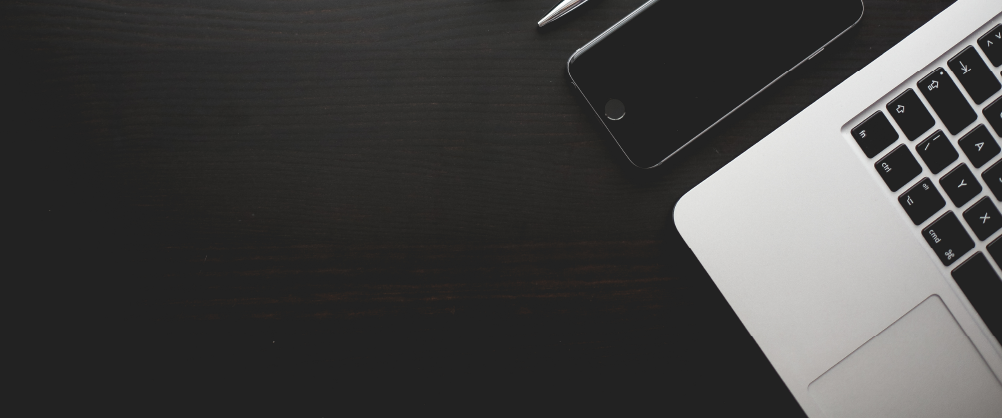
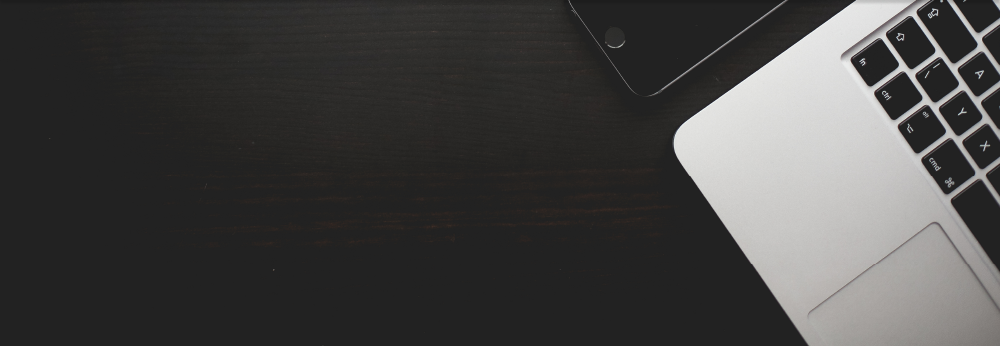
微調 navbar 的 hover 效果

diff --git a/css/style.css b/css/style.css
@@ -109,9 +109,15 @@ table {
 
 .navbar li a {
   line-height: 36px;
+  padding-bottom: 14px;
   color: #0c9;
 }
 .navbar li a:hover {
   border-bottom: 5px solid #0c9;
-  padding-bottom: 18px;
+}
+
+.banner {
+  background: url(../img/banner/bg.png);
+  width: 1000px;
+  height: 346px;
 }

diff --git a/index.html b/index.html
@@ -33,8 +33,6 @@
           <li><a href="#">產品介紹</a></li>
           <li><a href="#">聯絡我們</a></li>
         </ul>
-
-        <div class="clearfix"></div>
       </div>
     </div>
 
